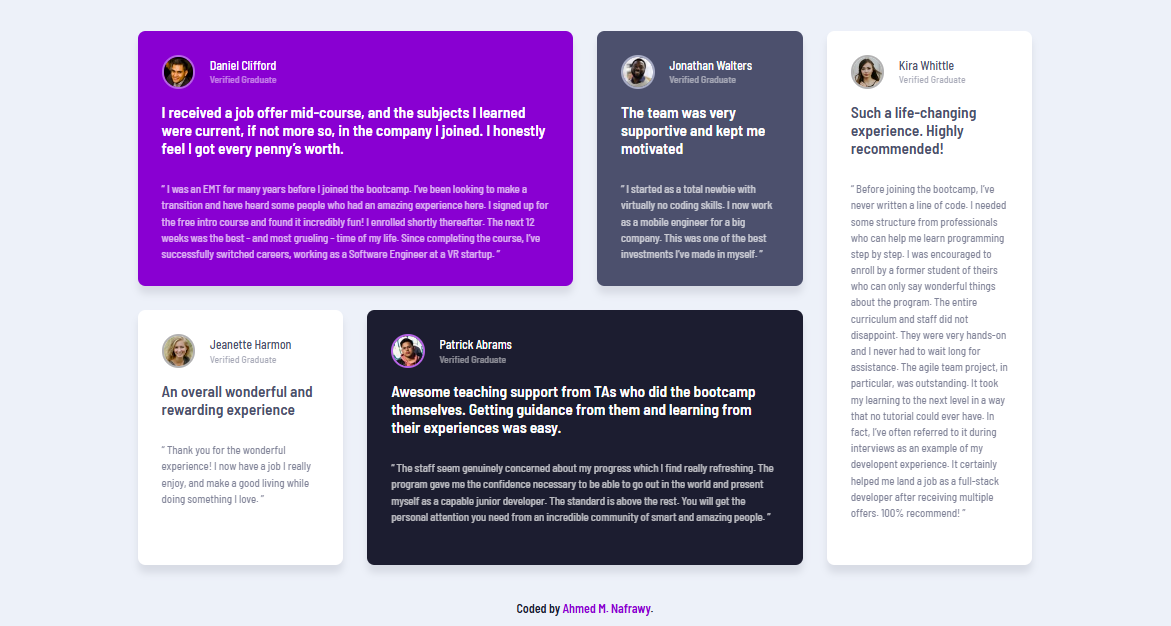
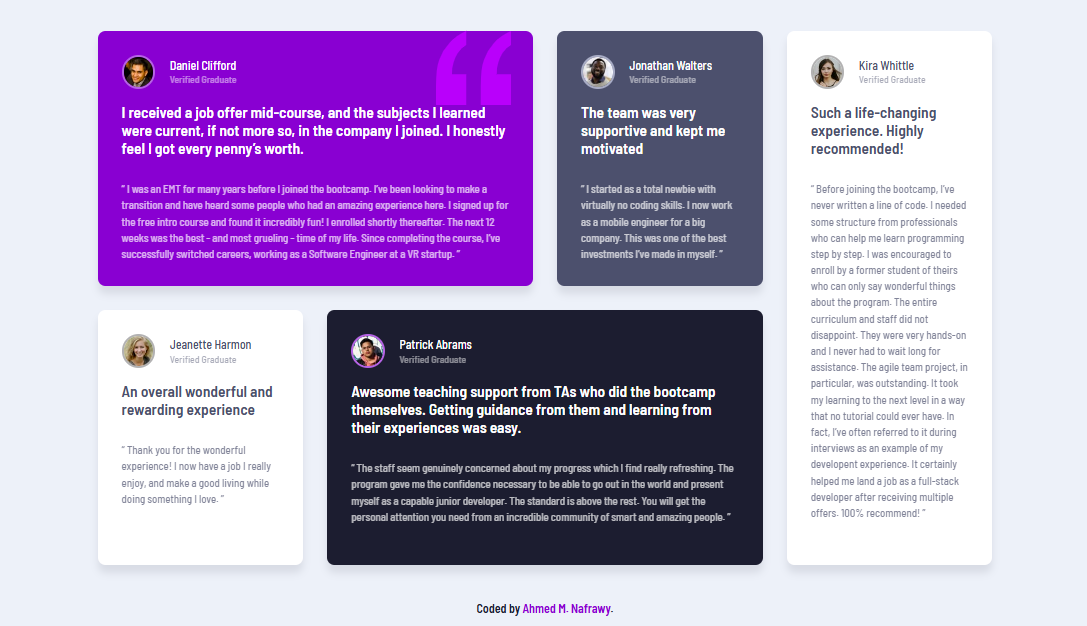
Add files via upload

Changed region(s): [[0.0911, 0.0304, 0.9108, 0.9105], [0.425, 0.9409, 0.5768, 1.0]]

diff --git a/style.css b/style.css
@@ -136,7 +136,7 @@ body {
   top: 0;
   right: 30px;
   width: 100%;
-  max-width: 100px;
+  max-width: 125px;
   z-index: -1;
 }
 
@@ -193,6 +193,10 @@ blockquote {
     grid-template-columns: repeat(2, 1fr);
     max-width: 68%;
   }
+
+  .quotation--mark {
+    right: 50px;
+  }
 }
 
 @media (min-width: 75em) {
@@ -221,5 +225,9 @@ blockquote {
   blockquote {
     font-size: 0.9rem;
     font-weight: var(--fw-500);
+  }
+
+  .quotation--mark {
+    right: 50px;
   }
 }
